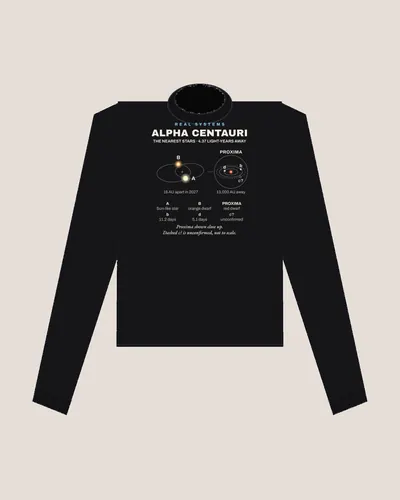
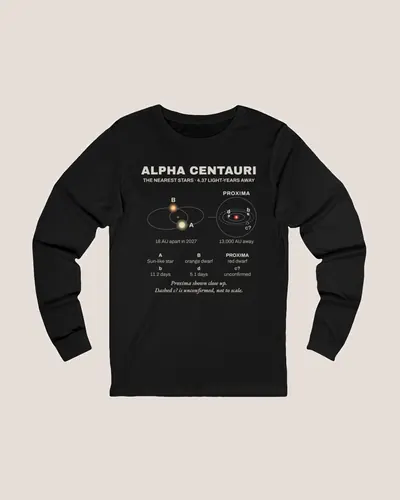
Long sleeves live

Changed region(s): [[0.06, 0.3, 0.93, 0.84], [0.21, 0.15, 0.78, 0.6]]

diff --git a/collections/index.html b/collections/index.html
@@ -61,6 +61,7 @@
         <li><a href="#sky-and-space">Sky &amp; Space</a></li>
         <li><a href="#science">Science</a></li>
         <li><a href="#art-prints">Art Prints</a></li>
+        <li><a href="#long-sleeves">Long Sleeves</a></li>
         <li><a href="#live-wallpapers">Live wallpapers</a></li>
       </ul>
     </div>
@@ -95,6 +96,14 @@
       <div class="block-head"><h2 id="h-art">Art Prints</h2><a class="more" href="https://www.etsy.com/shop/KnownOrbits">Shop on Etsy <span aria-hidden="true">&rarr;</span></a></div>
       <p>Ernst Haeckel's 1904 jellyfish plate, public domain, cleaned up for printing on cotton.</p>
       <ul class="shelf"><li><a class="item" href="https://www.etsy.com/listing/4622593924"><span class="tile"><picture><source type="image/webp" srcset="/assets/img/shirt-haeckel-jellyfish-400.webp 400w, /assets/img/shirt-haeckel-jellyfish-800.webp 800w" sizes="(min-width: 72rem) 300px, (min-width: 48rem) 23vw, 46vw"><img src="/assets/img/shirt-haeckel-jellyfish-400.jpg" srcset="/assets/img/shirt-haeckel-jellyfish-400.jpg 400w, /assets/img/shirt-haeckel-jellyfish-800.jpg 800w" sizes="(min-width: 72rem) 300px, (min-width: 48rem) 23vw, 46vw" width="400" height="500" alt="Natural cream T-shirt with Ernst Haeckel&#x27;s colorful 1904 jellyfish plate, captioned Discomedusae." loading="lazy" decoding="async"></picture></span><span class="meta"><span class="name" title="Haeckel&#x27;s jellyfish">Haeckel&#x27;s jellyfish</span><span class="price">$29.99</span></span><span class="line">Ernst Haeckel&#x27;s Discomedusae plate from Kunstformen der Natur (1904), in its original colors.</span></a></li></ul>
+    </div>
+  </section>
+
+  <section class="section collection" id="long-sleeves" aria-labelledby="h-ls">
+    <div class="wrap">
+      <div class="block-head"><h2 id="h-ls">Long Sleeves</h2><a class="more" href="https://www.etsy.com/shop/KnownOrbits">Shop on Etsy <span aria-hidden="true">&rarr;</span></a></div>
+      <p>The same twelve designs on a Bella+Canvas 3501 long sleeve tee. Printed when you order, free shipping in the US.</p>
+      <ul class="shelf"><li><a class="item" href="https://www.etsy.com/listing/4622629003"><span class="tile"><picture><source type="image/webp" srcset="/assets/img/ls-solar-system-400.webp 400w, /assets/img/ls-solar-system-800.webp 800w" sizes="(min-width: 72rem) 300px, (min-width: 48rem) 23vw, 46vw"><img src="/assets/img/ls-solar-system-400.jpg" srcset="/assets/img/ls-solar-system-400.jpg 400w, /assets/img/ls-solar-system-800.jpg 800w" sizes="(min-width: 72rem) 300px, (min-width: 48rem) 23vw, 46vw" width="400" height="500" alt="Black long sleeve T-shirt printed with the Known Orbits The Solar System design." loading="lazy" decoding="async"></picture></span><span class="meta"><span class="name" title="The Solar System">The Solar System</span><span class="price">$39.99</span></span><span class="line">Eight planets on their 1 January 2027 orbits.</span></a></li><li><a class="item" href="https://www.etsy.com/listing/4622602711"><span class="tile"><picture><source type="image/webp" srcset="/assets/img/ls-alpha-centauri-400.webp 400w, /assets/img/ls-alpha-centauri-800.webp 800w" sizes="(min-width: 72rem) 300px, (min-width: 48rem) 23vw, 46vw"><img src="/assets/img/ls-alpha-centauri-400.jpg" srcset="/assets/img/ls-alpha-centauri-400.jpg 400w, /assets/img/ls-alpha-centauri-800.jpg 800w" sizes="(min-width: 72rem) 300px, (min-width: 48rem) 23vw, 46vw" width="400" height="500" alt="Black long sleeve T-shirt printed with the Known Orbits Alpha Centauri design." loading="lazy" decoding="async"></picture></span><span class="meta"><span class="name" title="Alpha Centauri">Alpha Centauri</span><span class="price">$39.99</span></span><span class="line">The nearest stars, 4.37 light-years away.</span></a></li><li><a class="item" href="https://www.etsy.com/listing/4622637426"><span class="tile"><picture><source type="image/webp" srcset="/assets/img/ls-trappist-1-400.webp 400w, /assets/img/ls-trappist-1-800.webp 800w" sizes="(min-width: 72rem) 300px, (min-width: 48rem) 23vw, 46vw"><img src="/assets/img/ls-trappist-1-400.jpg" srcset="/assets/img/ls-trappist-1-400.jpg 400w, /assets/img/ls-trappist-1-800.jpg 800w" sizes="(min-width: 72rem) 300px, (min-width: 48rem) 23vw, 46vw" width="400" height="500" alt="Black long sleeve T-shirt printed with the Known Orbits TRAPPIST-1 design." loading="lazy" decoding="async"></picture></span><span class="meta"><span class="name" title="TRAPPIST-1">TRAPPIST-1</span><span class="price">$39.99</span></span><span class="line">Seven Earth-size planets around a small red star.</span></a></li><li><a class="item" href="https://www.etsy.com/listing/4622629191"><span class="tile"><picture><source type="image/webp" srcset="/assets/img/ls-kepler-90-400.webp 400w, /assets/img/ls-kepler-90-800.webp 800w" sizes="(min-width: 72rem) 300px, (min-width: 48rem) 23vw, 46vw"><img src="/assets/img/ls-kepler-90-400.jpg" srcset="/assets/img/ls-kepler-90-400.jpg 400w, /assets/img/ls-kepler-90-800.jpg 800w" sizes="(min-width: 72rem) 300px, (min-width: 48rem) 23vw, 46vw" width="400" height="500" alt="Black long sleeve T-shirt printed with the Known Orbits Kepler-90 design." loading="lazy" decoding="async"></picture></span><span class="meta"><span class="name" title="Kepler-90">Kepler-90</span><span class="price">$39.99</span></span><span class="line">Eight planets, all closer to their star than Earth is to the Sun.</span></a></li><li><a class="item" href="https://www.etsy.com/listing/4622637592"><span class="tile"><picture><source type="image/webp" srcset="/assets/img/ls-kepler-16-400.webp 400w, /assets/img/ls-kepler-16-800.webp 800w" sizes="(min-width: 72rem) 300px, (min-width: 48rem) 23vw, 46vw"><img src="/assets/img/ls-kepler-16-400.jpg" srcset="/assets/img/ls-kepler-16-400.jpg 400w, /assets/img/ls-kepler-16-800.jpg 800w" sizes="(min-width: 72rem) 300px, (min-width: 48rem) 23vw, 46vw" width="400" height="500" alt="Black long sleeve T-shirt printed with the Known Orbits Kepler-16 design." loading="lazy" decoding="async"></picture></span><span class="meta"><span class="name" title="Kepler-16">Kepler-16</span><span class="price">$39.99</span></span><span class="line">A planet that orbits two stars at once.</span></a></li><li><a class="item" href="https://www.etsy.com/listing/4622629397"><span class="tile"><picture><source type="image/webp" srcset="/assets/img/ls-55-cancri-400.webp 400w, /assets/img/ls-55-cancri-800.webp 800w" sizes="(min-width: 72rem) 300px, (min-width: 48rem) 23vw, 46vw"><img src="/assets/img/ls-55-cancri-400.jpg" srcset="/assets/img/ls-55-cancri-400.jpg 400w, /assets/img/ls-55-cancri-800.jpg 800w" sizes="(min-width: 72rem) 300px, (min-width: 48rem) 23vw, 46vw" width="400" height="500" alt="Black long sleeve T-shirt printed with the Known Orbits 55 Cancri design." loading="lazy" decoding="async"></picture></span><span class="meta"><span class="name" title="55 Cancri">55 Cancri</span><span class="price">$39.99</span></span><span class="line">Five planets and two stars, 41 light-years away.</span></a></li><li><a class="item" href="https://www.etsy.com/listing/4622629489"><span class="tile"><picture><source type="image/webp" srcset="/assets/img/ls-planets-2027-400.webp 400w, /assets/img/ls-planets-2027-800.webp 800w" sizes="(min-width: 72rem) 300px, (min-width: 48rem) 23vw, 46vw"><img src="/assets/img/ls-planets-2027-400.jpg" srcset="/assets/img/ls-planets-2027-400.jpg 400w, /assets/img/ls-planets-2027-800.jpg 800w" sizes="(min-width: 72rem) 300px, (min-width: 48rem) 23vw, 46vw" width="400" height="500" alt="Black long sleeve T-shirt printed with the Known Orbits Planets, 1 January 2027 design." loading="lazy" decoding="async"></picture></span><span class="meta"><span class="name" title="Planets, 1 January 2027">Planets, 1 January 2027</span><span class="price">$39.99</span></span><span class="line">Where each planet will be on New Year 2027.</span></a></li><li><a class="item" href="https://www.etsy.com/listing/4622637876"><span class="tile"><picture><source type="image/webp" srcset="/assets/img/ls-moon-2027-400.webp 400w, /assets/img/ls-moon-2027-800.webp 800w" sizes="(min-width: 72rem) 300px, (min-width: 48rem) 23vw, 46vw"><img src="/assets/img/ls-moon-2027-400.jpg" srcset="/assets/img/ls-moon-2027-400.jpg 400w, /assets/img/ls-moon-2027-800.jpg 800w" sizes="(min-width: 72rem) 300px, (min-width: 48rem) 23vw, 46vw" width="400" height="500" alt="Black long sleeve T-shirt printed with the Known Orbits Moon 2027 design." loading="lazy" decoding="async"></picture></span><span class="meta"><span class="name" title="Moon 2027">Moon 2027</span><span class="price">$39.99</span></span><span class="line">365 Moons, one for each night of 2027.</span></a></li><li><a class="item" href="https://www.etsy.com/listing/4622611172"><span class="tile"><picture><source type="image/webp" srcset="/assets/img/ls-looking-at-the-past-400.webp 400w, /assets/img/ls-looking-at-the-past-800.webp 800w" sizes="(min-width: 72rem) 300px, (min-width: 48rem) 23vw, 46vw"><img src="/assets/img/ls-looking-at-the-past-400.jpg" srcset="/assets/img/ls-looking-at-the-past-400.jpg 400w, /assets/img/ls-looking-at-the-past-800.jpg 800w" sizes="(min-width: 72rem) 300px, (min-width: 48rem) 23vw, 46vw" width="400" height="500" alt="Black long sleeve T-shirt printed with the Known Orbits You are looking at the past design." loading="lazy" decoding="async"></picture></span><span class="meta"><span class="name" title="You are looking at the past">You are looking at the past</span><span class="price">$39.99</span></span><span class="line">How long light takes to reach us, from the Moon to Andromeda.</span></a></li><li><a class="item" href="https://www.etsy.com/listing/4622629689"><span class="tile"><picture><source type="image/webp" srcset="/assets/img/ls-sensitive-dependence-400.webp 400w, /assets/img/ls-sensitive-dependence-800.webp 800w" sizes="(min-width: 72rem) 300px, (min-width: 48rem) 23vw, 46vw"><img src="/assets/img/ls-sensitive-dependence-400.jpg" srcset="/assets/img/ls-sensitive-dependence-400.jpg 400w, /assets/img/ls-sensitive-dependence-800.jpg 800w" sizes="(min-width: 72rem) 300px, (min-width: 48rem) 23vw, 46vw" width="400" height="500" alt="Black long sleeve T-shirt printed with the Known Orbits Sensitive Dependence design." loading="lazy" decoding="async"></picture></span><span class="meta"><span class="name" title="Sensitive Dependence">Sensitive Dependence</span><span class="price">$39.99</span></span><span class="line">Two runs of the same equations, 0.0001 apart.</span></a></li><li><a class="item" href="https://www.etsy.com/listing/4622611244"><span class="tile"><picture><source type="image/webp" srcset="/assets/img/ls-golden-angle-400.webp 400w, /assets/img/ls-golden-angle-800.webp 800w" sizes="(min-width: 72rem) 300px, (min-width: 48rem) 23vw, 46vw"><img src="/assets/img/ls-golden-angle-400.jpg" srcset="/assets/img/ls-golden-angle-400.jpg 400w, /assets/img/ls-golden-angle-800.jpg 800w" sizes="(min-width: 72rem) 300px, (min-width: 48rem) 23vw, 46vw" width="400" height="500" alt="Black long sleeve T-shirt printed with the Known Orbits 137.5° design." loading="lazy" decoding="async"></picture></span><span class="meta"><span class="name" title="137.5°">137.5°</span><span class="price">$39.99</span></span><span class="line">The golden-angle sunflower.</span></a></li><li><a class="item" href="https://www.etsy.com/listing/4622638082"><span class="tile"><picture><source type="image/webp" srcset="/assets/img/ls-haeckel-jellyfish-400.webp 400w, /assets/img/ls-haeckel-jellyfish-800.webp 800w" sizes="(min-width: 72rem) 300px, (min-width: 48rem) 23vw, 46vw"><img src="/assets/img/ls-haeckel-jellyfish-400.jpg" srcset="/assets/img/ls-haeckel-jellyfish-400.jpg 400w, /assets/img/ls-haeckel-jellyfish-800.jpg 800w" sizes="(min-width: 72rem) 300px, (min-width: 48rem) 23vw, 46vw" width="400" height="500" alt="White long sleeve T-shirt printed with the Known Orbits Haeckel&#x27;s Jellyfish design." loading="lazy" decoding="async"></picture></span><span class="meta"><span class="name" title="Haeckel&#x27;s Jellyfish">Haeckel&#x27;s Jellyfish</span><span class="price">$39.99</span></span><span class="line">Ernst Haeckel&#x27;s 1904 Discomedusae plate.</span></a></li></ul>
     </div>
   </section>
 
